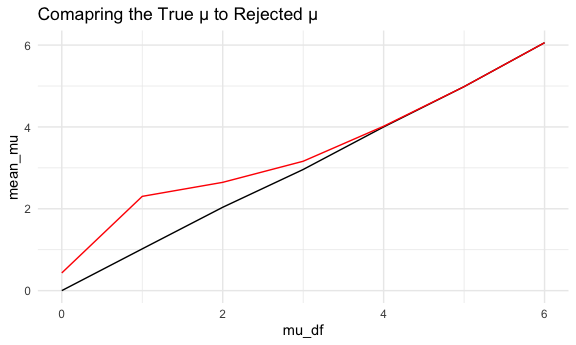
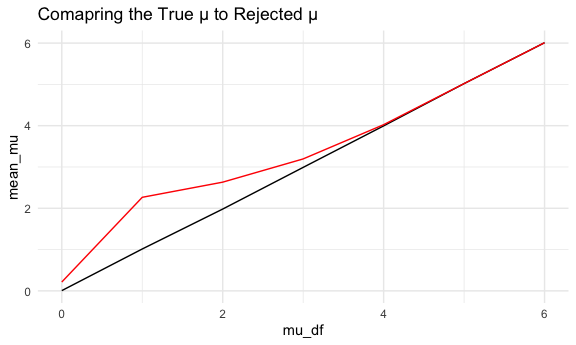
changing the number of datasets to 5000 due to the long loading time.

diff --git a/p8105_hw5_co2554.md b/p8105_hw5_co2554.md
@@ -78,7 +78,7 @@ sim_power = function(mu) {
 
 sim_power_results = expand_grid(
   mu_df = c(0, 1, 2, 3, 4, 5, 6), 
-  iteration = 1:500
+  iteration = 1:5000
 ) |> 
   mutate(
     estimate = map(mu_df, sim_power)
@@ -96,7 +96,7 @@ sim_power_results |>
   group_by(mu_df) |> 
   summarize(
     reject = sum(p_val < 0.05), 
-    proportion = reject / 500
+    proportion = reject / 5000
   ) |> 
   ggplot(aes(x = mu_df, y = proportion)) +
   geom_line(alpha = 0.6, linewidth = 0.9) +
@@ -129,3 +129,23 @@ reject_mu =
   group_by(mu_df) |> 
   summarize(mean_mu = mean(mu_hat))
 ```
+
+Now, we plot.
+
+``` r
+ggplot(true_mu, aes(x = mu_df, y = mean_mu)) +
+  geom_line() +
+  geom_line(data = reject_mu, color = "red") +
+  labs(title = "Comapring the True μ to Rejected μ")
+```
+
+<img src="p8105_hw5_co2554_files/figure-gfm/mu_plot-1.png" width="90%" />
+
+The red rejected μ line illustrates the relationship between true μ
+values and average μ_hat value of those who were rejected, p_value less
+than 0.05, and the black line illustrates the relationship for all
+samples within the data set.
+
+We can see the average μ_hat value of the samples where the null was
+rejected are different from the true mu value from 0 to 3. The rejected
+μ values line begins to mimic true μ values at roughly 4.
